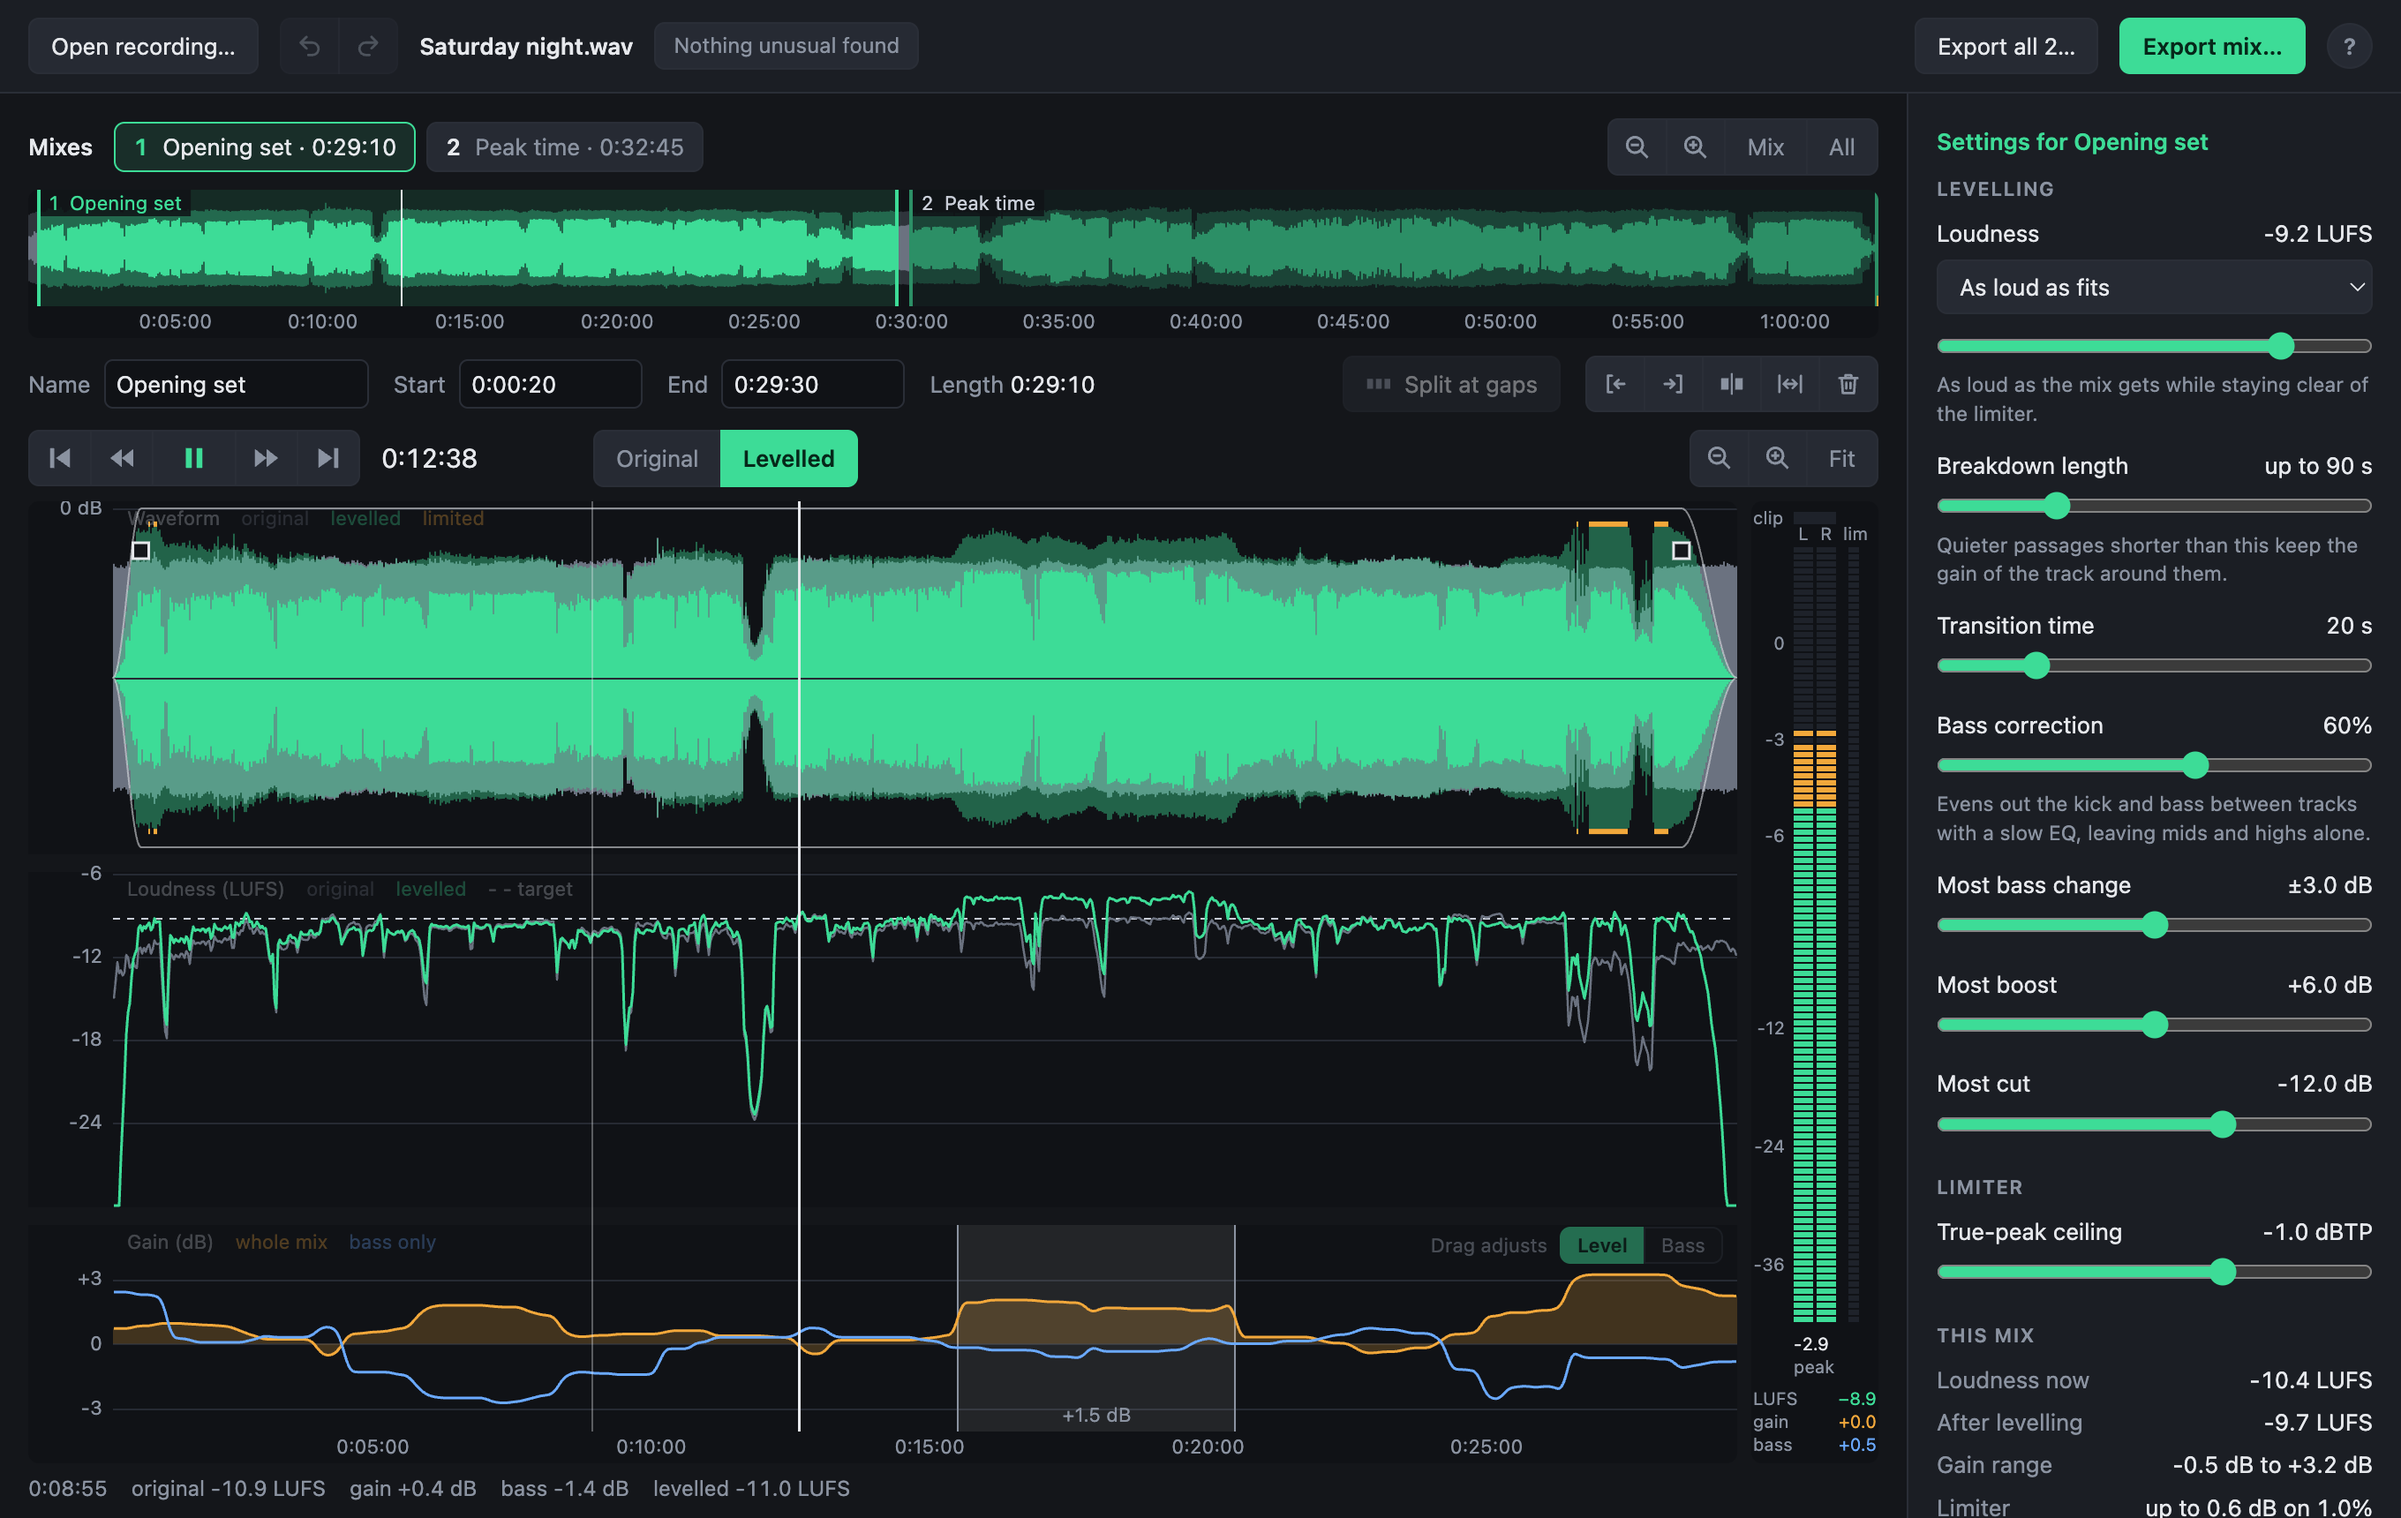
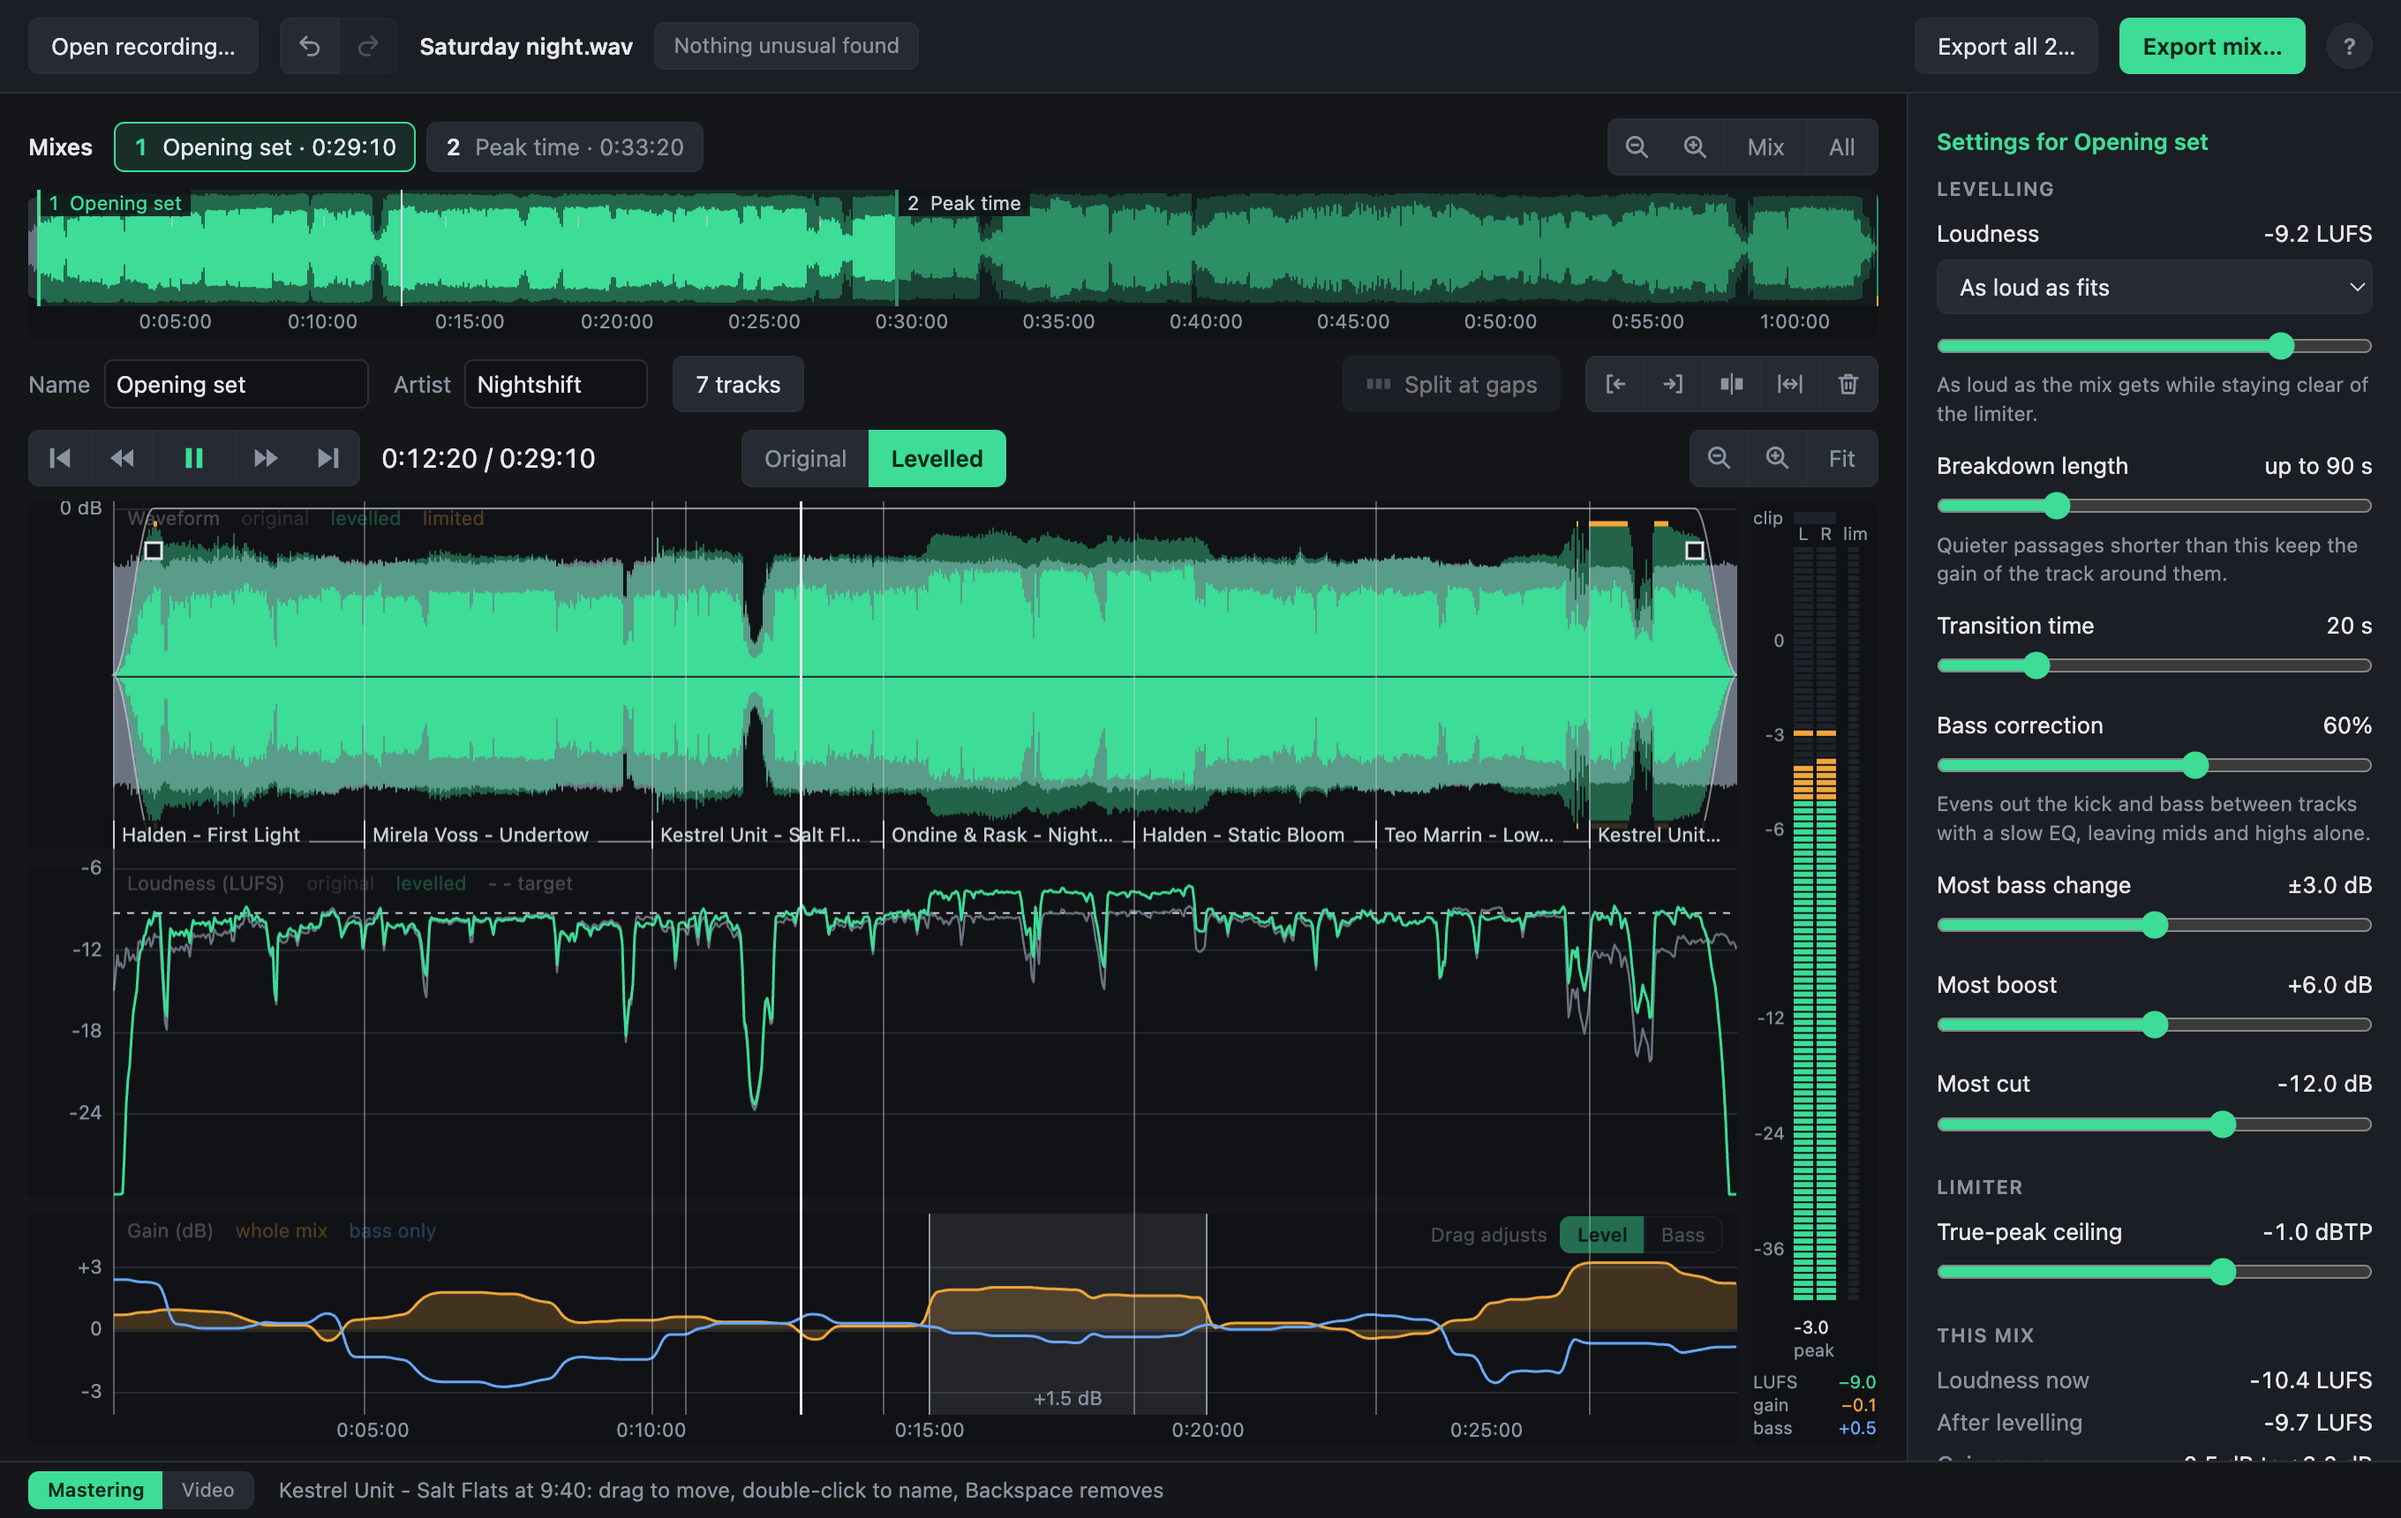
A new screenshot with track markers, taken by one command and before every release; more time for the cancelled video export on slow machines

diff --git a/scripts/screenshot/setup.js b/scripts/screenshot/setup.js
@@ -1,0 +1,61 @@
+// Runs inside the app's window, in check mode, to set up the state shown in
+// site/screenshot.png: two mixes, fades, bass correction, a stretch raised by
+// hand, the tracks of tracks.txt, playing at 12:20, the pointer on a track.
+// Made for a recording of about an hour; see scripts/screenshot.mjs.
+(async () => {
+  const w = (ms) => new Promise((r) => setTimeout(r, ms));
+  const $ = (id) => document.getElementById(id);
+  const key = (code, extra = {}) => window.dispatchEvent(new KeyboardEvent('keydown', { code, key: extra.key ?? '', bubbles: true, ...extra }));
+  const type = (id, value) => { const f = $(id); f.focus(); f.value = value; f.dispatchEvent(new Event('input', { bubbles: true })); f.dispatchEvent(new Event('change', { bubbles: true })); f.blur(); };
+  const tabs = () => [...document.querySelectorAll('#mix-tabs .mix-tab')];
+
+  // Two mixes: 0:20 to 29:30, and the rest.
+  key('Enter');
+  for (let i = 0; i < 4; i++) key('ArrowRight');
+  key('KeyI'); await w(200);
+  for (let i = 0; i < 58; i++) key('ArrowRight', { shiftKey: true });
+  for (let i = 0; i < 2; i++) key('ArrowRight');
+  key('KeyE', { metaKey: true }); await w(600);
+  tabs()[1].click(); await w(200);
+  type('mix-name', 'Peak time'); type('mix-artist', 'Nightshift'); await w(200);
+  tabs()[0].click(); await w(200);
+  type('mix-name', 'Opening set'); type('mix-artist', 'Nightshift');
+  const bass = $('bass'); bass.value = '0.6'; bass.dispatchEvent(new Event('input', { bubbles: true }));
+  await w(600);
+
+  // The tracks, from a list with times.
+  $('tracks-button').click(); await w(100);
+  $('tracks-import').click(); await w(800);
+  $('tracks-close').click(); await w(300);
+
+  const detail = $('detail');
+  const box = detail.getBoundingClientRect();
+  const length = 1750;
+  const xAt = (s) => box.left + 48 + (s / length) * (box.width - 48);
+  const usable = box.height - 18;
+  const waveH = Math.round(usable * 0.38);
+  const loudTop = waveH + 10, loudH = Math.round(usable * 0.38) - 10;
+  const gainTop = loudTop + loudH + 10, gainH = usable - gainTop;
+  const down = (x, y) => detail.dispatchEvent(new MouseEvent('mousedown', { clientX: x, clientY: y, bubbles: true }));
+  const move = (x, y) => window.dispatchEvent(new MouseEvent('mousemove', { clientX: x, clientY: y, bubbles: true }));
+  const up = () => window.dispatchEvent(new MouseEvent('mouseup', { bubbles: true }));
+
+  // Fades of 45 seconds at each end.
+  down(box.left + 48 + 5, box.top + 28); move(xAt(20), box.top + 28); move(xAt(45), box.top + 28); up(); await w(300);
+  down(box.right - 5, box.top + 28); move(xAt(length - 20), box.top + 28); move(xAt(length - 45), box.top + 28); up(); await w(300);
+
+  // A stretch raised by hand, 15:00 to 20:00 of the recording.
+  const y = box.top + gainTop + gainH / 2;
+  down(xAt(880), y); move(xAt(900), y); move(xAt(1180), y); up(); await w(400);
+  down(xAt(1030), y); move(xAt(1030), y - 10); move(xAt(1030), y - 30); up(); await w(400);
+
+  // Playing at 12:38.
+  down(xAt(758 - 20), box.top + 200); up();
+  detail.dispatchEvent(new MouseEvent('click', { clientX: xAt(758 - 20), clientY: box.top + 200, bubbles: true }));
+  await w(200);
+  key('Space'); await w(2500);
+  // Pointing at the third track's name.
+  detail.dispatchEvent(new MouseEvent('mousemove', { clientX: xAt(580) + 20, clientY: box.top + waveH - 8, bubbles: true }));
+  await w(800);
+  return [$('readout').textContent, tabs().map((t) => t.textContent).join(' | '), $('tracks-button').textContent].join(' || ');
+})()

diff --git a/test/window.test.ts b/test/window.test.ts
@@ -596,7 +596,7 @@ test('Export all makes MP4 videos of the mixes, and a cancelled one leaves nothi
   // A longer one, stopped part way: no file is left.
   const stopped = join(work, 'stopped');
   await mkdir(stopped);
-  const said = await runApp({ recording: mix, data: await fresh(), exportFolder: stopped, timeoutMs: 120_000 }, async (page) => {
+  const said = await runApp({ recording: mix, data: await fresh(), exportFolder: stopped, timeoutMs: 180_000 }, async (page) => {
     page.key('Enter');
     for (let i = 0; i < 8; i++) page.key('ArrowRight', { shift: true });
     await page.wait(100);
@@ -606,8 +606,9 @@ test('Export all makes MP4 videos of the mixes, and a cancelled one leaves nothi
     await page.until(() => page.element<HTMLDialogElement>('export-dialog').open, 'the export dialog');
     document.querySelector<HTMLButtonElement>('[data-format=mp4]')!.click();
     page.click('export-go');
-    // Into the picture, past the sound.
-    await page.until(() => parseFloat(page.element('progress-bar').style.width) > 30, 'the picture to be under way', 60_000);
+    // Into the picture, past the sound, which is the first tenth. Only just: a machine
+    // without a graphics card, as GitHub's Windows one, draws the picture slowly.
+    await page.until(() => parseFloat(page.element('progress-bar').style.width) > 12, 'the picture to be under way', 120_000);
     page.key('Escape', { key: 'Escape' });
     await page.until(() => /cancelled/.test(page.text('export-status')), 'the export to stop');
     await page.wait(500);

diff --git a/site/index.html b/site/index.html
@@ -30,7 +30,7 @@
         <p class="version">{{VERSION_LINE}} Free and open source. <a href="changes.html">What's new</a></p>
       </section>
 
-      <img class="screenshot" src="screenshot.png" width="2720" height="1720" alt="The DJ Mix Master window: a recording with two mixes marked, the first shown with a fade at each end, its loudness before and after, and the gain being applied.">
+      <img class="screenshot" src="screenshot.png" width="2720" height="1720" alt="The DJ Mix Master window: a recording with two mixes marked, the first shown with a fade at each end and the tracks played in it, its loudness before and after, and the gain being applied.">
 
       <h2>What it does</h2>
       <div class="features">

diff --git a/AGENTS.md b/AGENTS.md
@@ -259,10 +259,14 @@ npm keeps in step). `npm version` updates both, commits, and creates the
 matching tag; pushing the tag makes GitHub build and publish the installers.
 
 ```bash
+node scripts/screenshot.mjs vp-test.wav   # a new picture for the website; commit it
 npm version minor -m "Release %s"   # or: patch, major, or an exact number
 git push --follow-tags
 ```
 
+- Always take a new screenshot first (see "The website" below), so that the
+  website and the README show the window as it is in this release. Commit it
+  before running `npm version`.
 - The working folder has to be clean first.
 - `npm version` turns "Not released yet" in `CHANGELOG.md` into a heading for
   the new version (`scripts/release-changelog.mjs`), and stops if there is
@@ -281,15 +285,18 @@ release and whenever `site/` or `CHANGELOG.md` changes. Run the script locally t
 page (it needs the GitHub CLI signed in).
 
 `site/screenshot.png` is also the picture in the README. It is taken with the
-app's check mode at twice the size:
+app's check mode at twice the size, by one command, from a recording of about
+an hour (`vp-test.wav` among the local test recordings):
 
 ```bash
-DJMASTER_SHOT=site/screenshot.png DJMASTER_SHOT_SCALE=2 DJMASTER_SHOT_DATA=/tmp/djm-shot \
-DJMASTER_SHOT_SCRIPT="<script that sets up a good-looking state>" \
-npx electron . "Saturday night.wav"
+node scripts/screenshot.mjs vp-test.wav
 ```
 
-The file name of the recording shows in the picture, so use a neutral one.
+The recording is shown as "Saturday night.wav", and the artist and track
+names in the picture are made up, so nothing real ends up on the website.
+`scripts/screenshot/setup.js` sets up what is shown; when the window gains
+something worth showing, add it there. Look at the picture before committing
+it: a script that went wrong still takes one.
 
 ## Working agreements
 
